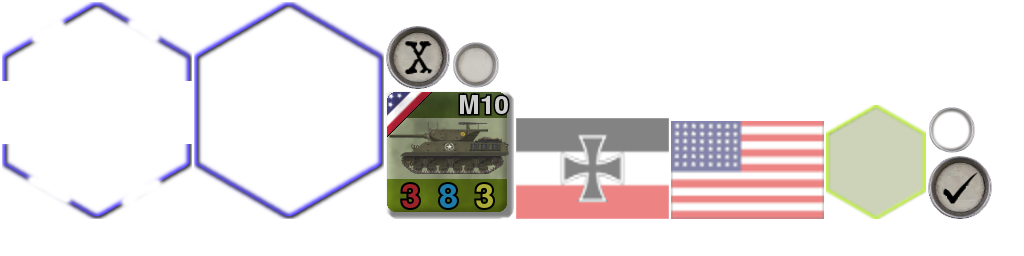
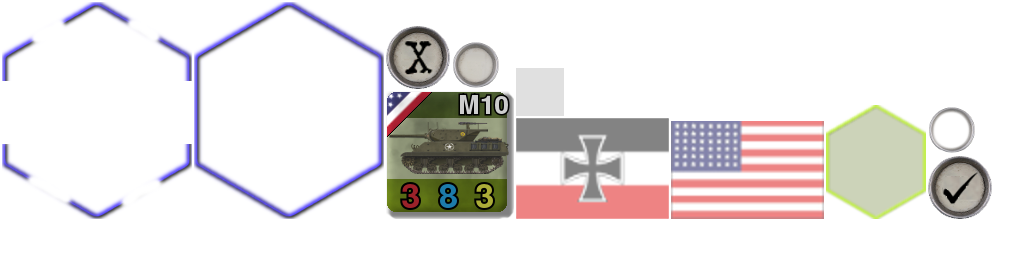
assets: add UI_SELECT

Changed region(s): [[0.5, 0.25, 0.5625, 0.4688]]

diff --git a/core/src/ch/asynk/rustanddust/RustAndDust.java b/core/src/ch/asynk/rustanddust/RustAndDust.java
@@ -50,6 +50,7 @@ public class RustAndDust extends Game
 
     public static final String UI_OK = "ok";
     public static final String UI_CANCEL = "cancel";
+    public static final String UI_SELECT = "select";
     public static final String UI_FROM = "from";
     public static final String UI_TO = "to";
     public static final String UI_MOVE = "move";
